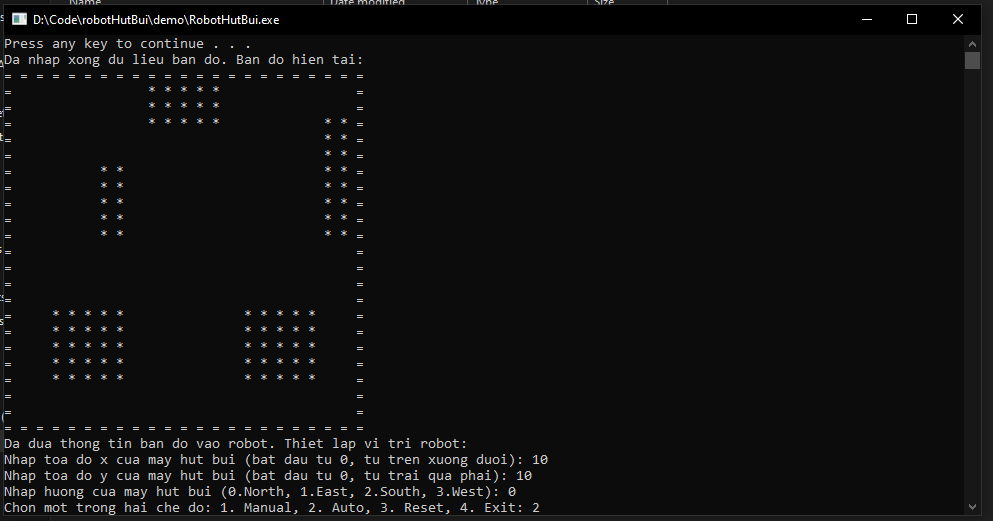
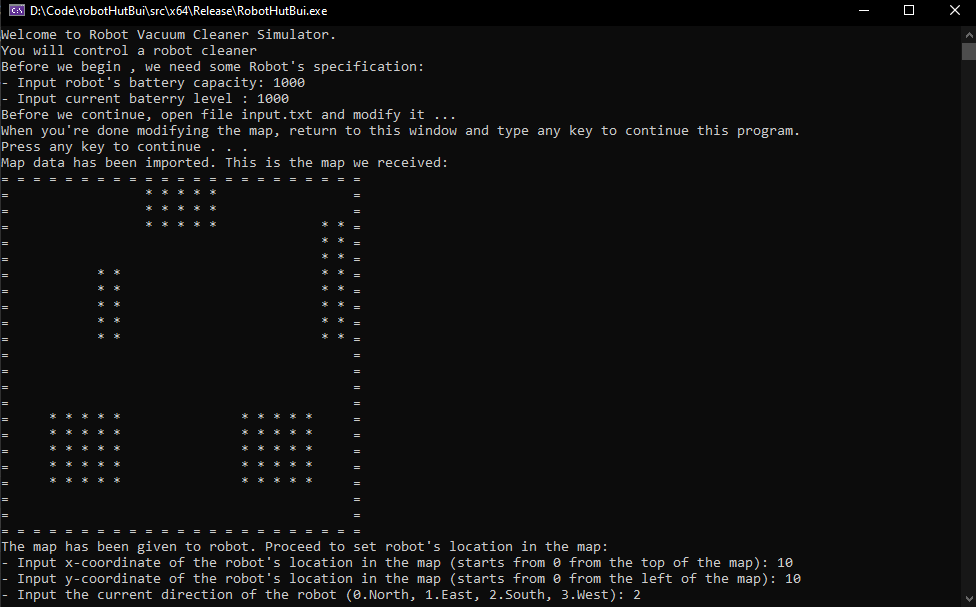
Modify text display

diff --git a/src/RobotHutBui/robot/robot.h b/src/RobotHutBui/robot/robot.h
@@ -14,7 +14,7 @@ struct Direction
 class Cleaner
 {
     protected:
-        string manufacturer = "cleanerABC";
+        string manufacturer = "RobotCleanerABC";
         string serial_number = "vunt1";
         float current_battery = 0;
 		float battery_threshold = 0;
@@ -29,7 +29,7 @@ class Cleaner
 			int option = -1;
 			do
 			{
-				cout << "Chon mot trong hai che do: 1. Manual, 2. Auto, 3. Reset, 4. Exit: ";
+				cout << "Choose an option: 1. Run with Manual Mode, 2. Run with Auto Mode, 3. Reset Program, 4. Exit: ";
 				cin >> option;
 				switch (option)
 				{
@@ -46,30 +46,30 @@ class Cleaner
 					break;
 				}
 			} while (option != 4);
-			cout << "Ket thuc chuong trinh" << endl;
+			cout << "Program ends. Thank you for using :)" << endl;
 		}
 
 		void Reset()
 		{
 			Map room_map;
-			cout << "Chinh sua ban do tren file input.txt... Nhan bat ki phim nao de tiep tuc chuong trinh." << endl;;
+			cout << "Before we continue, open file input.txt and modify it ... \nWhen you're done modifying the map, return to this window and type any key to continue this program." << endl;;
 			system("pause");
 			room_map.Nhap("input.txt");
-			cout << "Da nhap xong du lieu ban do. Ban do hien tai:" << endl;
+			cout << "Map data has been imported. This is the map we received:" << endl;
 			room_map.ShowMap();
 
 			map_data.XoaMap();
 			SetMap(room_map);
-			cout << "Da dua thong tin ban do vao robot. Thiet lap vi tri robot:" << endl;
+			cout << "The map has been given to robot. Proceed to set robot's location in the map:" << endl;
 			SetRobotInMap();
 		}
 	
 		//NHAP va XUAT
 		void Init()
 		{
-			cout << "Nhap dung luong pin toi da: ";
+			cout << "- Input robot's battery capacity: ";
 			cin >> battery_threshold;
-			cout << "Nhap dung luong pin hien tai: ";
+			cout << "- Input current baterry level : ";
 			cin >> current_battery;
 
 		}
@@ -82,13 +82,13 @@ class Cleaner
 		void SetRobotInMap()
 		{
 			int x, y;
-			cout << "Nhap toa do x cua may hut bui (bat dau tu 0, tu tren xuong duoi): ";
+			cout << "- Input x-coordinate of the robot's location in the map (starts from 0 from the top of the map): ";
 			cin >> x;
-			cout << "Nhap toa do y cua may hut bui (bat dau tu 0, tu trai qua phai): ";
+			cout << "- Input y-coordinate of the robot's location in the map (starts from 0 from the left of the map): ";
 			cin >> y;
 			current.position = map_data.FindNode(x, y);
 
-			cout << "Nhap huong cua may hut bui (0.North, 1.East, 2.South, 3.West): ";
+			cout << "- Input the current direction of the robot (0.North, 1.East, 2.South, 3.West): ";
 			cin >> current.direction;
 
 
@@ -149,21 +149,21 @@ class Cleaner
 			int flag = 0;
 			if (!CheckBattery(float(0.05)*temp) && (float(0.05)*temp < (current_battery + 1)))
 			{
-				cout << "LUU Y: Nguon pin duoi 5%. Xin hay sac robot cua ban." << endl;
+				cout << "WARNING: Battery's level under 5% of its capacity. Please charge." << endl;
 				flag = 1;
 			}
 			else
 			{
 				if (!CheckBattery(float(0.1)*temp) && (float(0.1)*temp < (current_battery + 1)))
 				{
-					cout << "LUU Y: Nguon pin duoi 10%. Xin hay sac robot cua ban." << endl;
+					cout << "WARNING: Battery's level under 10% of its capacity. Please charge." << endl;
 					flag = 1;
 				}
 				else
 				{
 					if (!CheckBattery(float(0.15)*temp) && (float(0.15)*temp < (current_battery + 1)))
 					{
-						cout << "LUU Y: Nguon pin duoi 15%. Xin hay sac robot cua ban." << endl;
+						cout << "WARNING: Battery's level under 15% of its capacity. Please charge." << endl;
 						flag = 1;
 					}
 				}
@@ -429,7 +429,7 @@ class Cleaner
 			ControlLowBattery();
 			if (current_battery < 0.02*battery_threshold)
 			{
-				cout << "Het pin. Khong the tien hanh di chuyen. Xin hay sac." << endl;
+				cout << "Running out of battery. The robot is unable to move. Please charge." << endl;
 				return;
 			}
 
@@ -475,7 +475,7 @@ class Cleaner
 			int option = -1;
 			do
 			{
-				cout << "Chon: 1. Live Control, 2. Setup Control, 0.Exit: ";
+				cout << "Choose how you will manually control this robot: 1. Live Control, 2. Setup Control, 0.Exit: ";
 				cin >> option;
 				switch (option)
 				{
@@ -486,7 +486,7 @@ class Cleaner
 				{
 					int step;
 					unsigned int flag = 1;
-					cout << "Nhap so buoc de robot di chuyen: ";
+					cout << "Input how many steps you want robot to move: ";
 					cin >> step;
 					flag = ChooseAction(flag);
 					SetupControl(step, flag);
@@ -551,14 +551,14 @@ class Cleaner
 				}
 				else
 				{
-					cout << "Het pin. Khong the tien hanh di chuyen. Xin hay sac." << endl;
+					cout << "Running out of battery. The robot is unable to move. Please charge." << endl;
 					return;
 				}
 				
 			}
 			if (CountUncleaned() == 0)
 			{
-				cout << "DA DON SACH! :)" << endl;
+				cout << "CLEANING FINISHED! :)" << endl;
 			}
 			else
 			{

diff --git a/src/RobotHutBui/main.cpp b/src/RobotHutBui/main.cpp
@@ -4,7 +4,8 @@
 int main()
 {
     Cleaner VC;
-	cout << "Tien hanh nhap thong tin robot:" << endl;
+	cout << "Welcome to Robot Vacuum Cleaner Simulator.\nYou will control a robot cleaner" << endl;
+	cout << "Before we begin , we need some Robot's specification:" << endl;
 	VC.Init();
 	VC.Reset();
 	VC.Menu();

diff --git a/README.md b/README.md
@@ -1,6 +1,6 @@
 # Mô phỏng Robot Hút Bụi (Robot Vacuum Cleaner Simulator)
 
-<img src="" width="300" alt="Chương trình" />
+<img src="https://github.com/vunguyent17/RobotHutBui/blob/main/Screenshot/Screenshot%20RobotHutBui2.png" width="300" alt="Chương trình" />
 
 ## Giới thiệu / Introduction
 
@@ -11,15 +11,15 @@ This program simulates how a Robot Vacuum Cleaner works, and find a method so th
 ### Chức năng của ứng dụng / Functionality:
 - Nhập bản đồ căn phòng cho robot bằng file txt, hiển thị bản đồ và trạng thái làm việc lên console
 -	Chương trình có các chế độ hút bụi: Manual, Auto
-- Chế độ chạy bằng tay (Manual): có 2 cách di chuyển
-  - Live control: Người dùng nhập lệnh và robot di chuyển
-  - Setup control: Người dùng nhập hướng đi và số bước cho robot di chuyển
-- Chế độ chạy tự động: Robot sẽ tự động quét hết căn phòng.
+  - Chế độ chạy bằng tay (Manual): có 2 cách di chuyển
+    - Live control: Người dùng nhập lệnh và robot di chuyển
+    - Setup control: Người dùng nhập hướng đi và số bước cho robot di chuyển
+  - Chế độ chạy tự động: Robot sẽ tự động quét hết căn phòng.
 - Thông bao pin yếu / tự động ngừng khi hết pin
  <br/>
 
 - Input room map using text file. Display map and robot status on console
-- Robot has 2 modes when working: Manual, Mode
+- Robot has 2 modes when working: Manual, Auto
   - Manual mode: there are two ways to control robot manually:
     - Live control: Robot moves by each command from user's input
     - Setup control: User types direction and number of steps to move robot
